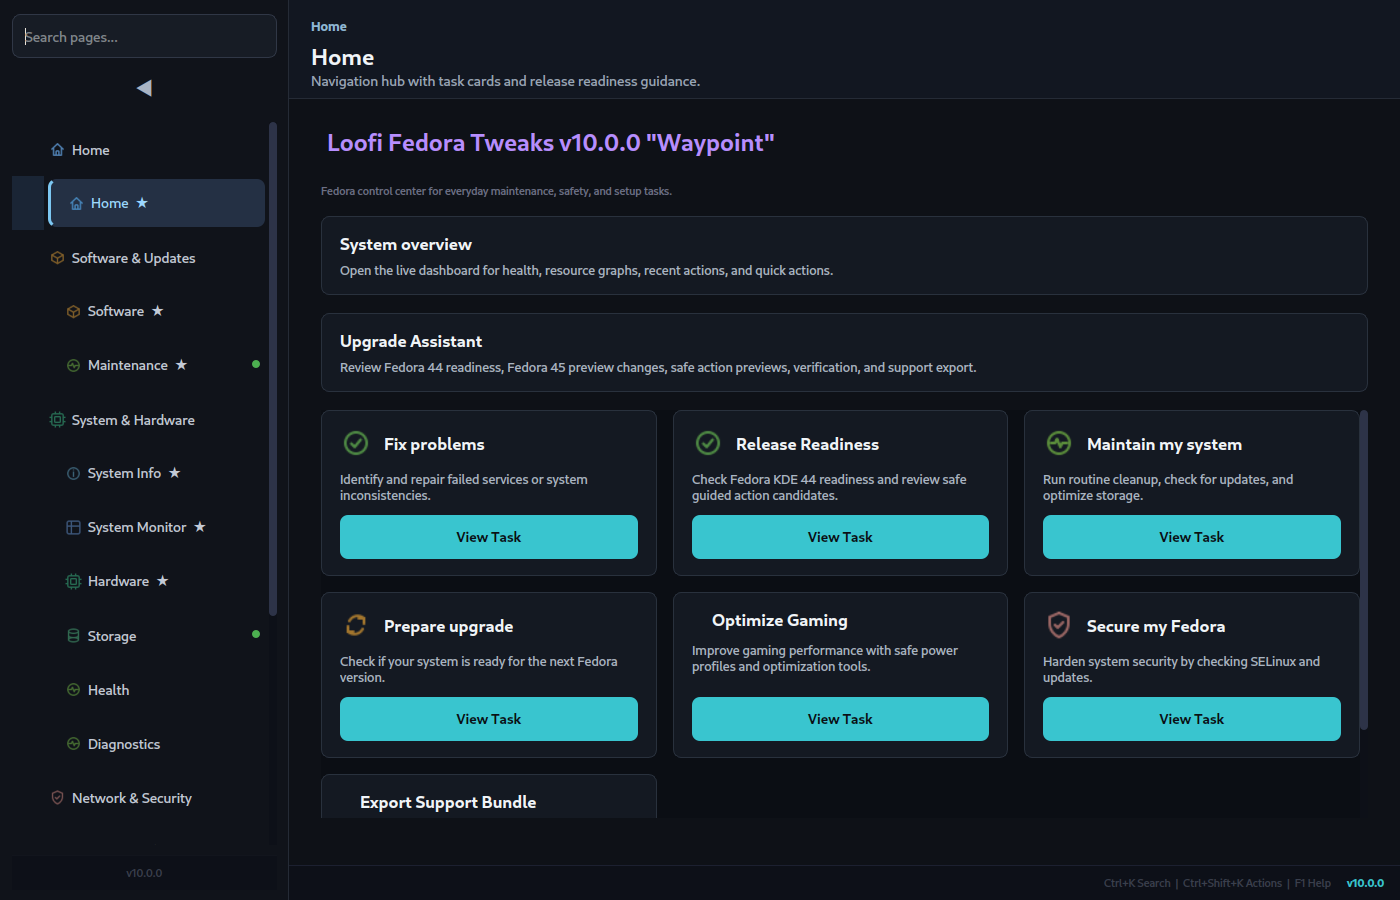
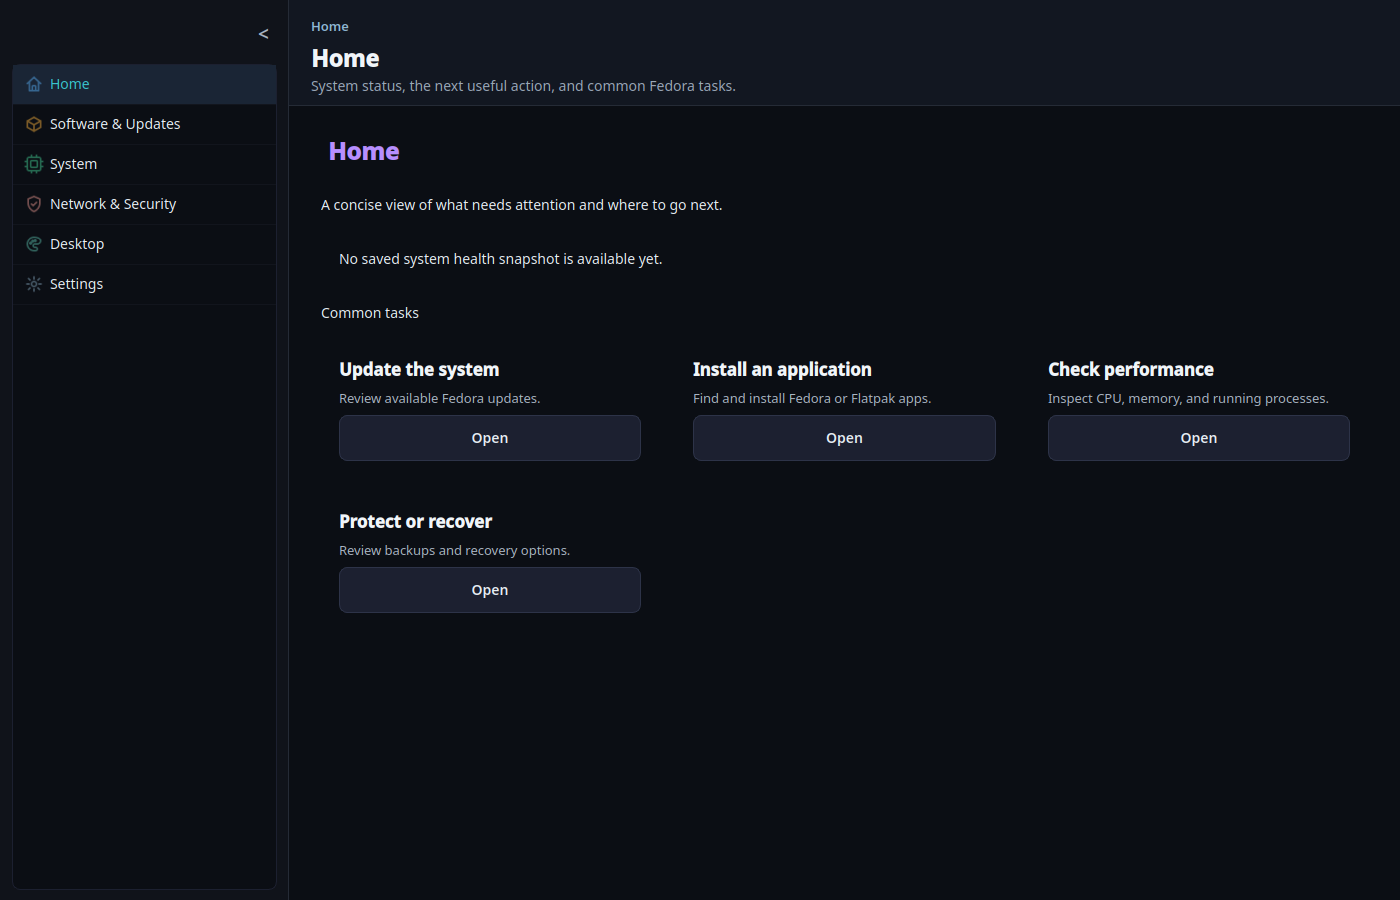
docs: close v15 release [skip ci]

diff --git a/docs/reports/V15_PHASE10_RELEASE_READINESS.md b/docs/reports/V15_PHASE10_RELEASE_READINESS.md
@@ -2,18 +2,18 @@
 
 Date: 2026-07-18
 Release: `v15.0.0 "Essentials"`
-Status: local release gates passed; public publication pending
+Status: released and publicly verified
 
 ## Outcome
 
-The v15 implementation is locally publish-ready. Documentation, metadata,
+The v15 implementation is published. Documentation, metadata,
 screenshots, package descriptions, and workflow specs describe the shipped
 six-destination Standard experience, optional Advanced destination, logical
 core/specialist isolation, and preserved v14 trust contracts.
 
 The historical pre-renormalization `v15.0.0 "Nebula"` annotated tag object is
-preserved on origin as `legacy-v15.0.0-nebula`. The conflicting canonical tag
-was removed deliberately before the Essentials release commit is created.
+preserved on origin as `legacy-v15.0.0-nebula`. The canonical `v15.0.0` tag now
+peels to release commit `17aa8aa78cd3ac51d1d63da336ee25d4e5e3b4c1`.
 
 ## Compatibility preserved
 
@@ -69,17 +69,38 @@ DNS component-id warning and informational metadata suggestions. The desktop
 validator reports the existing multiple-main-category hint. These do not block
 the repository's established Fedora release gate.
 
-## Publication gates
+## Public release evidence
 
-The following are intentionally performed only after the exact release commit
-exists:
+- GitHub release: `v15.0.0`, published 2026-07-18, not a draft or prerelease.
+- Release commit: `17aa8aa78cd3ac51d1d63da336ee25d4e5e3b4c1`.
+- CI run `29628964016`, CodeQL run `29628963858`, and Auto Release Pipeline
+  run `29628964018`: terminal success.
+- Public assets: three RPMs, Flatpak, sdist, SHA256SUMS, CycloneDX SBOM, and
+  in-toto/SLSA provenance downloaded and verified.
+- Provenance: five subjects, source digest bound to the release commit, tag
+  `v15.0.0`; SBOM metadata identifies version `15.0.0` with five components.
+- Public RPM transaction dry-run from installed `1:14.0.0-1.fc44` to the
+  downloaded base/API/daemon `1:15.0.0-1.fc44` set: passed without mutation.
+- COPR build `10739754`, chroot `fedora-44-x86_64`: succeeded. The release
+  workflow installed the public package and verified version `15.0.0`.
+- Wiki commit `d0ecb6228d4fb8a089de99d9d3bd7de134212b93`: public Home text and canonical
+  hero screenshot read back byte-for-byte.
 
-1. build and verify checksums, CycloneDX SBOM, and in-toto/SLSA provenance
-   against that commit;
-2. push the exact commit and create the canonical `v15.0.0` tag;
-3. wait for terminal GitHub Actions and COPR results;
-4. verify Fedora 44 install/upgrade evidence and public release assets;
-5. publish and read back the wiki and final release announcement.
+Public asset SHA-256 digests:
+
+| Artifact | SHA-256 |
+| --- | --- |
[5 lines of base64/hex data omitted]
+
+## Remaining and deferred
 
 No physical extras RPM ships in v15. The evidence-backed Phase 9 NO-GO remains
 deferred to v16; logical component isolation is the shipped boundary.
+
+The existing AppStream reverse-DNS warning, informational metadata suggestions,
+and desktop multiple-main-category hint remain non-blocking under the
+repository's established Fedora release gate. No other release issue remains.

diff --git a/wiki/Home.md b/wiki/Home.md
@@ -2,20 +2,20 @@
 
 Welcome to the official wiki for **Loofi Fedora Tweaks** — a modern Fedora control center for maintenance, diagnostics, security, performance, and automation.
 
-**Current Version**: v14.0.0 "Helm" — Verified, Guided Maintenance
+**Current Version**: v15.0.0 "Essentials" — Product Simplification
 **Screenshots Refreshed**: July 2026
 
 ![Loofi Fedora Tweaks Dashboard](images/hero-home.png)
 
 ## At a Glance
 
-- **Focused navigation**: The app uses five default areas for everyday Fedora workflows while preserving stable route IDs for search, favorites, quick actions, breadcrumbs, and dashboard cards.
-- **Task-based Home**: Home cards route users into focused maintenance, readiness, and safety workflows.
-- **Upgrade Assistant**: Fedora 44 stable readiness and Fedora 45 preview planning are available from Home and Maintenance.
-- **Advanced tools on demand**: AI Lab, Agents, Automation, Logs, Community, Teleport, Virtualization, Gaming, Performance, Profiles, Extensions, Snapshots, and Loofi Link remain searchable and favoriteable without crowding the sidebar.
+- **Focused navigation**: Standard mode has six destinations: Home, Software & Updates, System, Network & Security, Desktop, and Settings.
+- **One Home**: Saved health, state, update, backup, history, and Action Center signals are summarized without probing or mutating the host at startup.
+- **One search surface**: `Ctrl+K` finds routes, settings, and safe action entry points while respecting availability and Standard/Advanced policy.
+- **Advanced tools on demand**: AI Lab, Agents, Automation, Community, Teleport, Virtualization, Gaming, Performance, Profiles, Extensions, and Loofi Link remain available through the optional Advanced destination.
 - **Safe actions**: Privileged operations use `pkexec`; command preview and execution share the same allowlist, timeout, action metadata, and command-vector checks.
 - **State & Recovery**: Read-only State Doctor, privacy-safe backup, plan-before-apply restore, and collector status live in Settings.
-- **Verified maintenance**: Maintenance → Action Center creates expiring plans, rechecks preflight before apply, serializes mutations, and records separate execution and verification results. Interrupted runs never resume automatically.
+- **Verified maintenance**: Software & Updates → Action Center creates expiring plans, rechecks preflight before apply, serializes mutations, and records separate execution and verification results. Interrupted runs never resume automatically.
 - **First-Class Atomic Support**: Dedicated `rpm-ostree` diagnostics and upgrade checks for Silverblue/Kinoite.
 - 4 run modes: GUI, CLI (`--json`), daemon scheduler, and Web API.
 - Privileged actions through `pkexec` (never `sudo`).
@@ -90,7 +90,7 @@ Welcome to the official wiki for **Loofi Fedora Tweaks** — a modern Fedora con
 ## Quick Links
 
 - GitHub Repository: [loofiboss-bit/loofi-fedora-tweaks](https://github.com/loofiboss-bit/loofi-fedora-tweaks)
-- Latest Release: [v14.0.0](https://github.com/loofiboss-bit/loofi-fedora-tweaks/releases/tag/v14.0.0)
+- Latest Release: [v15.0.0](https://github.com/loofiboss-bit/loofi-fedora-tweaks/releases/tag/v15.0.0)
 - Issues: [Issue Tracker](https://github.com/loofiboss-bit/loofi-fedora-tweaks/issues)
 - Main README: [README.md](https://github.com/loofiboss-bit/loofi-fedora-tweaks/blob/master/README.md)
 - Architecture Doc: [ARCHITECTURE.md](https://github.com/loofiboss-bit/loofi-fedora-tweaks/blob/master/ARCHITECTURE.md)

diff --git a/wiki/GUI-Tabs-Reference.md b/wiki/GUI-Tabs-Reference.md
@@ -1,6 +1,6 @@
 # GUI Tabs Reference
 
-Complete reference for the focused navigation areas in Loofi Fedora Tweaks v10.0.0 "Waypoint".
+Reference for Loofi Fedora Tweaks v15.0.0 "Essentials" navigation.
 
 ---
 
@@ -8,11 +8,12 @@ Complete reference for the focused navigation areas in Loofi Fedora Tweaks v10.0
 
 The default sidebar intentionally stays small:
 
-1. **Home** — Home dashboard, Upgrade Assistant entry, and release readiness guidance.
-2. **Software & Updates** — Software, Maintenance, Snapshots, and Virtualization.
-3. **System & Hardware** — System Info, System Monitor, Hardware, Storage, Health, Diagnostics, Performance, and Gaming.
-4. **Network & Security** — Network, Security & Privacy, Backup, and Loofi Link.
-5. **Desktop & Settings** — Desktop, Settings, Profiles, Extensions, and Development Tools.
+1. **Home** — Prioritized status, recommendations, and safe workflow links.
+2. **Software & Updates** — Applications, repositories, updates, cleanup, upgrades, and Action Center.
+3. **System** — System information, performance, processes, hardware, storage, diagnostics, and recovery points.
+4. **Network & Security** — Connections, DNS, privacy, firewall, exposure, and backups.
+5. **Desktop** — Appearance, windows, and displays.
+6. **Settings** — Appearance, behavior, Advanced mode, Repair Loofi, and About.
 
 ## Home
 
@@ -25,7 +26,7 @@ The default sidebar intentionally stays small:
 4. Snapshots (`snapshot_tab.py`) — Advanced/search/favorite route by default.
 5. Virtualization (`virtualization_tab.py`) — Advanced/search/favorite route by default.
 
-## System & Hardware
+## System
 
 6. System Info (`system_info_tab.py`)
 7. System Monitor (`monitor_tab.py`)
@@ -43,7 +44,7 @@ The default sidebar intentionally stays small:
 16. Backup (`backup_tab.py`)
 17. Loofi Link (`mesh_tab.py`) — Advanced/search/favorite route by default.
 
-## Desktop & Settings
+## Desktop and Settings
 
 18. Desktop (`desktop_tab.py`)
 19. Settings (`settings_tab.py`)
@@ -51,7 +52,7 @@ The default sidebar intentionally stays small:
 21. Extensions (`extensions_tab.py`) — Advanced/search/favorite route by default.
 22. Development Tools (`development_tab.py`) — Intermediate/Advanced/search/favorite route by default.
 
-## More and Advanced Tools
+## Advanced Tools
 
 23. Live Overview (`dashboard_tab.py`) — Route-addressable system overview.
 24. Community (`community_tab.py`) — Presets, marketplace, plugins, and featured content.
@@ -65,7 +66,7 @@ The default sidebar intentionally stays small:
 
 ## Navigation Tips
 
-- Use sidebar search to filter routes by name, aliases, and description.
+- Press `Ctrl+K` to search routes, settings, and safe action entry points.
 - Use Favorites to pin stable plugin or route IDs, including hidden default routes.
-- Press `Ctrl+K` to open the command palette.
-- Switch to Advanced mode to expose the **More** area in the sidebar.
+- Press `Ctrl+Shift+K` to filter search to actions. Search can navigate and preselect, but cannot plan or execute an action.
+- Enable Advanced mode from Settings to expose the **Advanced** destination.

diff --git a/wiki/Getting-Started.md b/wiki/Getting-Started.md
@@ -47,23 +47,24 @@ The wizard creates a profile at `~/.config/loofi-fedora-tweaks/profile.json` and
 
 ### Focused Sidebar
 
-The main window uses five default navigation areas:
+Standard mode uses six destinations:
 
 | Area | Purpose |
 |------|---------|
-| **Home** | Launch dashboard, task cards, and release readiness |
-| **Software & Updates** | Software, repositories, maintenance, snapshots, and virtualization |
-| **System & Hardware** | System information, monitoring, hardware, storage, health, and diagnostics |
-| **Network & Security** | Network settings, backup, firewall, privacy, and hardening |
-| **Desktop & Settings** | Desktop customization, app settings, profiles, extensions, and developer tools |
+| **Home** | Prioritized status, recommendations, and safe links |
+| **Software & Updates** | Applications, repositories, updates, cleanup, upgrades, and Action Center |
+| **System** | System information, performance, processes, hardware, storage, diagnostics, and recovery points |
+| **Network & Security** | Connections, DNS, privacy, firewall, exposure, and backups |
+| **Desktop** | Appearance, windows, and displays |
+| **Settings** | Appearance, behavior, Advanced mode, Repair Loofi, and About |
 
-Advanced tools such as AI Lab, Agents, Automation, Logs, Community, Teleport, Gaming, Performance, Profiles, Extensions, Snapshots, Virtualization, and Loofi Link are available through search, favorites, command palette, direct routes, or Advanced mode.
+Enable **Settings → Advanced Tools** to add the Advanced destination. Specialist routes remain available without changing their safety or confirmation requirements.
 
 ### Key UI Features
 
-- **Sidebar Search**: Type to filter tabs by name
+- **Global Search**: Press `Ctrl+K` to find routes, settings, and safe action entry points
 - **Favorites**: Pin any route, including advanced routes hidden from the default sidebar
-- **Command Palette**: Press `Ctrl+K` to open the global command palette for quick navigation and actions
+- **Action Search**: Press `Ctrl+Shift+K` to filter the same search model to safe action entry points
 - **Page Header**: Shows current area, route context, and common actions
 - **Toast Notifications**: Transient success/error messages appear in the status bar
 - **Status Bar Undo**: Click the undo button to revert the last privileged action (via `HistoryManager`)

diff --git a/ROADMAP.md b/ROADMAP.md
@@ -69,11 +69,11 @@
 | v12.0.0 | Lighthouse                      | DONE    | Proactive health observability, My Fedora Today timeline, and guided recovery                |
 | v13.0.0 | Anchor                          | DONE    | State integrity, recovery, observability convergence, and reproducible releases              |
 | v14.0.0 | Helm                            | DONE    | Verified guided maintenance, bounded execution, and release lineage assurance                |
-| v15.0.0 | Essentials                      | ACTIVE  | Six-destination UX, canonical Home, true lazy loading, and logical component isolation        |
+| v15.0.0 | Essentials                      | DONE    | Six-destination UX, canonical Home, true lazy loading, and logical component isolation        |
 
 ---
 
-## [ACTIVE] v15.0.0 "Essentials" — Product Simplification
+## [DONE] v15.0.0 "Essentials" — Product Simplification
 
 **Theme**: Make normal Fedora maintenance obvious while preserving every v14
 trust and compatibility contract.
@@ -91,7 +91,7 @@ modes, five core workflows, startup efficiency, and logical component isolation.
 - [x] System-default visual foundation, semantic icons, accessible shared states, and responsive validation
 - [x] Logical core/specialist discovery, reduced base dependencies, preserved API/daemon packages, and extras NO-GO evidence
 - [x] v15 metadata, architecture, guides, release notes, AppStream descriptions, and real-app screenshots
-- [ ] Exact release commit, CI/COPR/install-upgrade gates, publication, and public readback
+- [x] Exact release commit, CI/COPR/install-upgrade gates, publication, and public readback
 
 ### Compatibility
 
@@ -108,8 +108,8 @@ modes, five core workflows, startup efficiency, and logical component isolation.
 
 The historical pre-renormalization `v15.0.0 "Nebula"` tag object is preserved
 on origin as `legacy-v15.0.0-nebula`, and the conflicting canonical tag was
-removed deliberately. Essentials stays ACTIVE until the new exact release
-commit, terminal publication gates, and public readback are complete.
+removed deliberately. The canonical tag now peels to the exact Essentials
+release commit, and the terminal publication gates and public readback passed.
 
 ---
 

diff --git a/docs/releases/RELEASE-ANNOUNCEMENT.md b/docs/releases/RELEASE-ANNOUNCEMENT.md
@@ -7,9 +7,9 @@ destinations, one Home, one search surface, and Standard or Advanced mode. The
 v14 Action Center, state integrity, Fedora safety, routes, CLI, API, and daemon
 contracts remain intact.
 
-Publication is pending exact release-tag lineage and the remaining remote
-release gates. This file is the prepared announcement, not a claim that v15 is
-already live.
+The release is live on GitHub and the Fedora 44 COPR repository. Checksums,
+CycloneDX SBOM, in-toto/SLSA provenance, RPMs, Flatpak, and source distribution
+were read back and verified against the exact release commit.
 
 ## Highlights
 
@@ -27,8 +27,6 @@ already live.
 
 ## Install or upgrade
 
-After the release is published:
-
 ```bash
 pkexec dnf copr enable loofitheboss/loofi-fedora-tweaks
 pkexec dnf upgrade loofi-fedora-tweaks
@@ -43,11 +41,8 @@ pkexec dnf install loofi-fedora-tweaks-daemon
 
 ## Links
 
-- **Release notes**: `docs/releases/RELEASE-NOTES-v15.0.0.md`
-- **Changelog**: `CHANGELOG.md`
-- **Architecture**: `ARCHITECTURE.md`
+- **GitHub release**: <https://github.com/loofiboss-bit/loofi-fedora-tweaks/releases/tag/v15.0.0>
+- **Release notes**: <https://github.com/loofiboss-bit/loofi-fedora-tweaks/blob/master/docs/releases/RELEASE-NOTES-v15.0.0.md>
+- **COPR packages**: <https://copr.fedorainfracloud.org/coprs/loofitheboss/loofi-fedora-tweaks/>
+- **Wiki**: <https://github.com/loofiboss-bit/loofi-fedora-tweaks/wiki>
 - **Issue tracker**: <https://github.com/loofiboss-bit/loofi-fedora-tweaks/issues>
-
-The GitHub release URL will be
-<https://github.com/loofiboss-bit/loofi-fedora-tweaks/releases/tag/v15.0.0>
-after exact-lineage publication succeeds.

diff --git a/.workflow/specs/tasks-v15.0.0.md b/.workflow/specs/tasks-v15.0.0.md
@@ -15,7 +15,7 @@
 - [x] E100-E107: synchronize `15.0.0 "Essentials"` metadata, roadmap, architecture, user guides, release notes, migration guidance, AppStream, and canonical screenshots
 - [x] E108: run local full-suite, coverage, lint, release-doc, packaging, Fedora-readiness, RPM, Flatpak, sdist, SBOM/checksum, security, and workflow-report gates
 - [x] E109: preserve the old Nebula tag object as `legacy-v15.0.0-nebula` and deliberately free the conflicting remote `v15.0.0` tag before publication
-- [ ] [post-publish] E110: commit the exact release tree, publish/read back GitHub assets and provenance, complete COPR/Fedora 44 install-upgrade evidence, and publish/read back the wiki
+- [x] [post-publish] E110: commit the exact release tree, publish/read back GitHub assets and provenance, complete COPR/Fedora 44 install-upgrade evidence, and publish/read back the wiki
 
 ## Required release exit
 
@@ -30,4 +30,4 @@ Public completion additionally requires one exact release commit, a remote
 Fedora 44 install/upgrade evidence, GitHub release asset readback, and wiki
 readback. The historical 2026-02-08 Nebula tag collision must be remediated
 without losing its commit before the exact-lineage gate can pass. That
-remediation is complete; publication and readback remain open.
+remediation, publication, and public readback are complete.

diff --git a/README.md b/README.md
@@ -13,7 +13,7 @@
 
 <p align="center">
   <a href="https://github.com/loofiboss-bit/loofi-fedora-tweaks/releases/tag/v15.0.0">
-    <img src="https://img.shields.io/badge/Target-v15.0.0-blue?style=for-the-badge&logo=github" alt="Target v15.0.0"/>
+    <img src="https://img.shields.io/badge/Release-v15.0.0-blue?style=for-the-badge&logo=github" alt="Release v15.0.0"/>
   </a>
   <img src="https://img.shields.io/badge/Fedora_KDE-44-blue?style=for-the-badge&logo=fedora" alt="Fedora KDE 44"/>
   <img src="https://img.shields.io/badge/Python-3.12+-green?style=for-the-badge&logo=python" alt="Python 3.12 or newer"/>
@@ -202,10 +202,10 @@ See [AGENTS.md](AGENTS.md), [ARCHITECTURE.md](ARCHITECTURE.md), and
 
 ## Release status
 
-The implementation target is `v15.0.0 "Essentials"`. The historical
-pre-renormalization `v15.0.0 "Nebula"` tag is preserved as
-`legacy-v15.0.0-nebula`; the canonical `v15.0.0` slot is reserved for the exact
-Essentials release commit.
+`v15.0.0 "Essentials"` is available from the GitHub release and the Fedora 44
+COPR repository. The historical pre-renormalization `v15.0.0 "Nebula"` tag is
+preserved as `legacy-v15.0.0-nebula`; the canonical `v15.0.0` tag points to the
+exact Essentials release commit.
 
 ## License
 

diff --git a/wiki/Changelog.md b/wiki/Changelog.md
@@ -1,5 +1,13 @@
 # Changelog
 
+## v15.0.0 — Essentials
+
+- Reorganized Standard mode into six destinations with one canonical Home and one policy-backed search surface.
+- Added true top-level lazy loading and conditional startup services; startup host probes, timers, and worker threads are eliminated.
+- Added five guided workflows while keeping Action Center as the only plan/run/verify surface.
+- Added Standard/Advanced migration and logical core/specialist discovery without splitting the base RPM.
+- Preserved v14 routes, state, Traditional/Atomic behavior, CLI, API, daemon, IPC, and Action Center contracts.
+
 ## v14.0.0 — Helm
 
 - Added expiring, digest-bound Action Center plans and separately verified runs.

diff --git a/wiki/Architecture.md b/wiki/Architecture.md
@@ -232,7 +232,9 @@ for plugin in PluginRegistry.instance():
     self.add_page(name=meta.name, icon=meta.icon, widget=lazy_widget, category=meta.category)
 ```
 
-Only `DashboardTab` and `SystemInfoTab` are eagerly imported.
+v15 registers data-only plugin specifications and wraps top-level pages in
+`LazyWidget`. A route's UI module and widget are loaded when that route is first
+opened, while stable IDs and aliases remain registered from startup.
 
 ### 10. Safety & History
 
